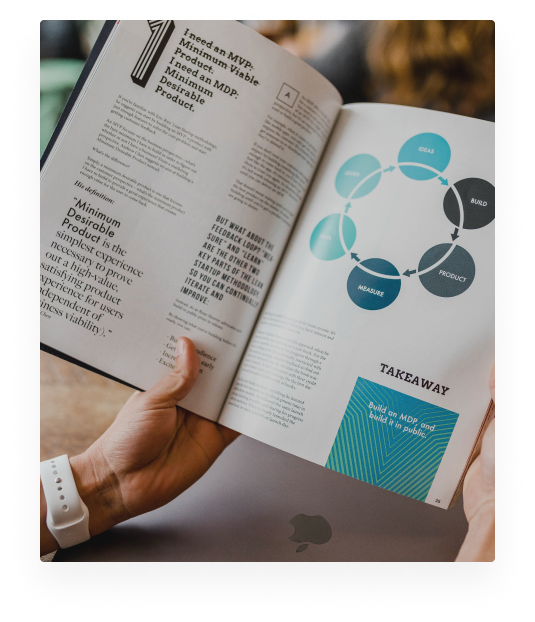
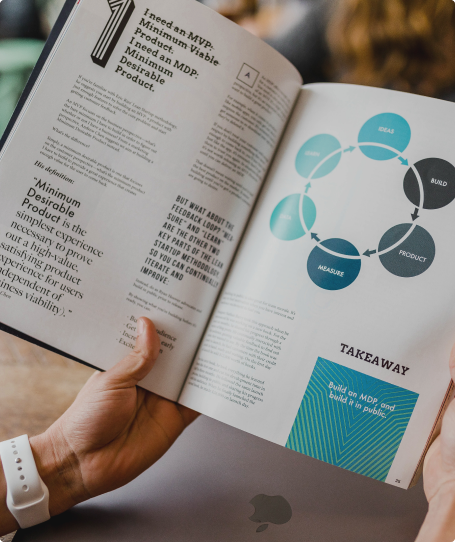
Strategies section layout complete

diff --git a/src/components/strategies.tsx b/src/components/strategies.tsx
@@ -1,5 +1,41 @@
+import Image from "next/image";
+
 const Strategies = () => {
-    return <div>Strategies</div>;
+    return (
+        <section className='flex gap-2 justify-between container-sm relative mb-[140px] pt-[93px] pr-5'>
+            <div className='z-0 absolute top-0 left-0 bg-gray-canvas2 w-[1320px] h-[562px]' />
+
+            <Image
+                className='relative z-10 ml-[125px]'
+                src='/static/assets/images/image6.png'
+                alt='a hand with a book'
+                width={455}
+                height={542}
+            />
+            <Image
+                src={"/static/assets/patterns/shape1.svg"}
+                alt='shape pattern'
+                width={86}
+                height={102}
+                className='absolute z-0 left-[200px] -bottom-10'
+            />
+            <article className='flex flex-col gap-4 max-w-[455px] relative z-10'>
+                <h2 className='section-main-text'>
+                    The strategies of Our business
+                </h2>
+                <p className='article-regular-text'>
+                    “Design is not just what it looks like and feels like.
+                    Design is how it works”. We always try to make a great
+                    output by this culture. Steve Jobs.
+                </p>
+                <p className='article-regular-text'>
+                    See below our three main plans for your business, for your
+                    stratup and agency. It starts from here! You can teach
+                    yourself what you really like.
+                </p>
+            </article>
+        </section>
+    );
 };
 
 export default Strategies;

diff --git a/src/app/services/page.tsx b/src/app/services/page.tsx
@@ -1,10 +1,11 @@
-import { Startups, WhoWeAre } from "@/components";
+import { Startups, Strategies, WhoWeAre } from "@/components";
 
 const Services = () => {
     return (
         <main>
             <Startups />
             <WhoWeAre />
+            <Strategies />
         </main>
     );
 };
